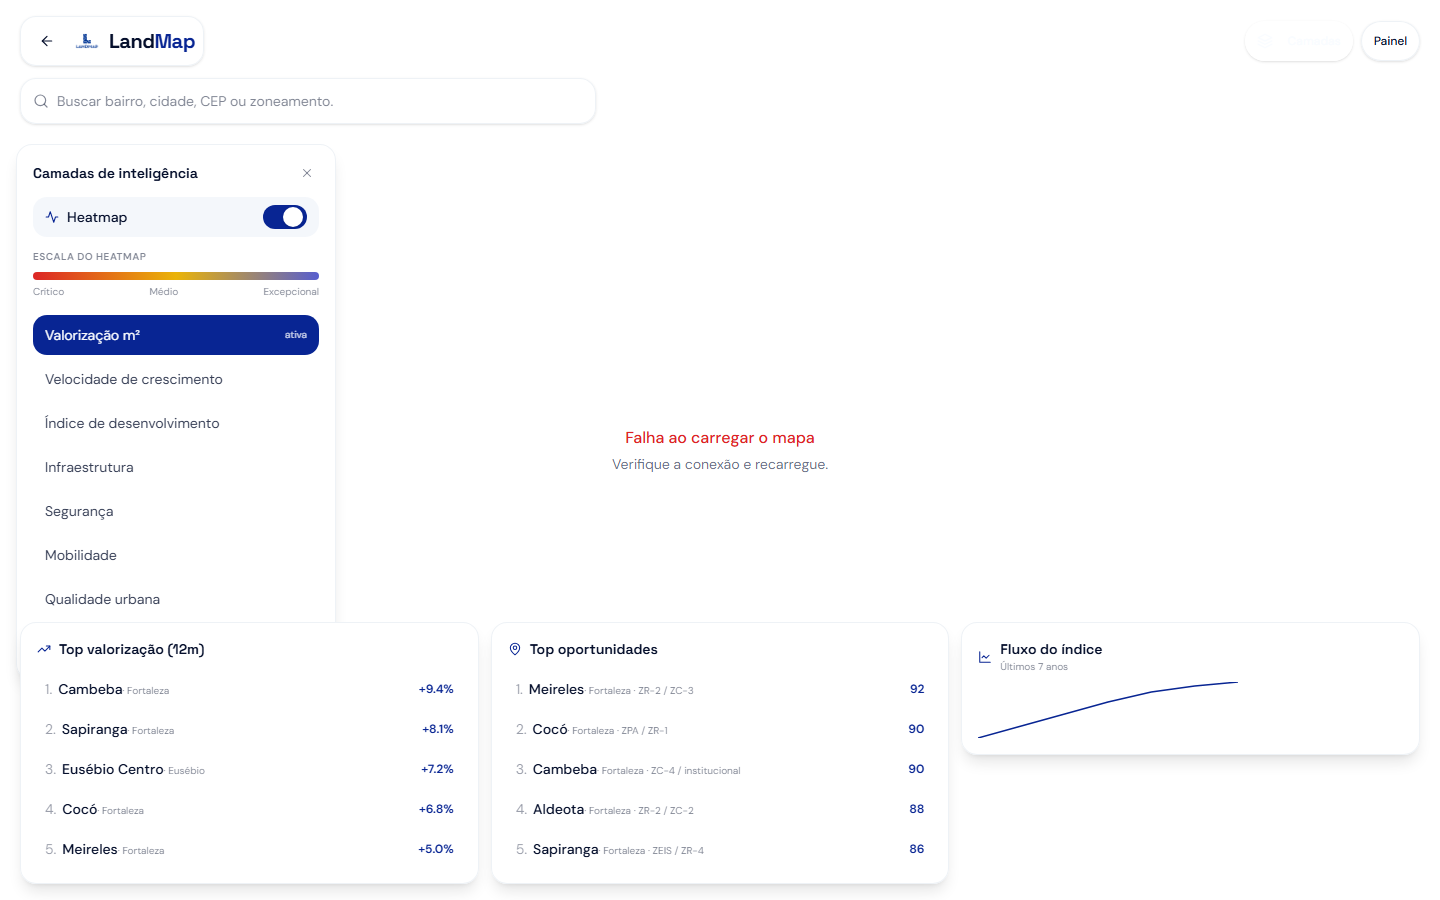
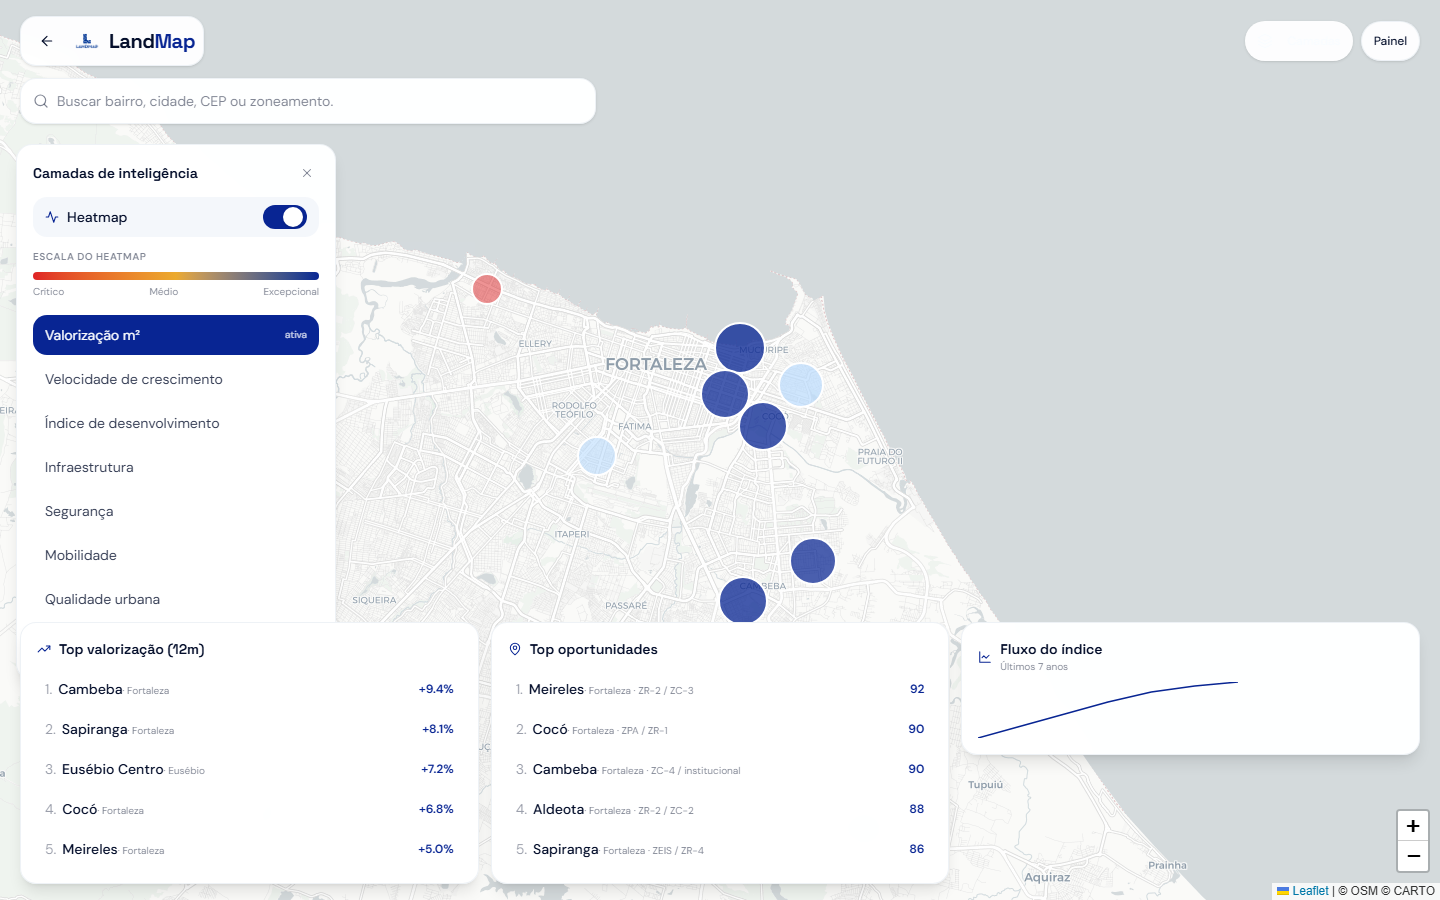
fix(map): import Leaflet dinamico no cliente (resolve 500 SSR window is not defined)

diff --git a/apps/web/src/app/[locale]/map/page.tsx b/apps/web/src/app/[locale]/map/page.tsx
@@ -9,7 +9,6 @@
 import { useCallback, useEffect, useMemo, useRef, useState } from 'react';
 import Link from 'next/link';
 import { useLocale } from 'next-intl';
-import L from 'leaflet';
 import 'leaflet/dist/leaflet.css';
 import { RequireAuth } from '../../../components/RequireAuth';
 import {
@@ -131,34 +130,39 @@ function MapPageInner() {
     if (!mapRef.current || mapInstance.current) return;
     let cancelled = false;
 
-    try {
-      if (cancelled || !mapRef.current || mapInstance.current) return;
-      const map = L.map(mapRef.current, {
-        center: MAP_CENTER,
-        zoom: MAP_DEFAULT_ZOOM,
-        zoomControl: false,
-        preferCanvas: true,
-        attributionControl: true,
-      });
-      L.control.zoom({ position: 'bottomright' }).addTo(map);
-      // Light basemap close to Lovable Google Maps light style
-      L.tileLayer('https://{s}.basemaps.cartocdn.com/light_all/{z}/{x}/{y}{r}.png', {
-        attribution: '&copy; OSM &copy; CARTO',
-        maxZoom: 19,
-        subdomains: 'abcd',
-      }).addTo(map);
-      mapInstance.current = map;
-      setMapReady(true);
-      setTimeout(() => {
-        try {
-          map.invalidateSize({ animate: false });
-        } catch {
-          /* ignore */
-        }
-      }, 120);
-    } catch {
-      setMapError(true);
-    }
+    (async () => {
+      try {
+        if (cancelled || !mapRef.current || mapInstance.current) return;
+        // Leaflet is imported dynamically: its module touches `window` at import
+        // time, which breaks SSR. Loading it here (client-only) avoids that.
+        const L = (await import('leaflet')).default;
+        const map = L.map(mapRef.current, {
+          center: MAP_CENTER,
+          zoom: MAP_DEFAULT_ZOOM,
+          zoomControl: false,
+          preferCanvas: true,
+          attributionControl: true,
+        });
+        L.control.zoom({ position: 'bottomright' }).addTo(map);
+        // Light basemap close to Lovable Google Maps light style
+        L.tileLayer('https://{s}.basemaps.cartocdn.com/light_all/{z}/{x}/{y}{r}.png', {
+          attribution: '&copy; OSM &copy; CARTO',
+          maxZoom: 19,
+          subdomains: 'abcd',
+        }).addTo(map);
+        mapInstance.current = map;
+        setMapReady(true);
+        setTimeout(() => {
+          try {
+            map.invalidateSize({ animate: false });
+          } catch {
+            /* ignore */
+          }
+        }, 120);
+      } catch {
+        setMapError(true);
+      }
+    })();
 
     return () => {
       cancelled = true;